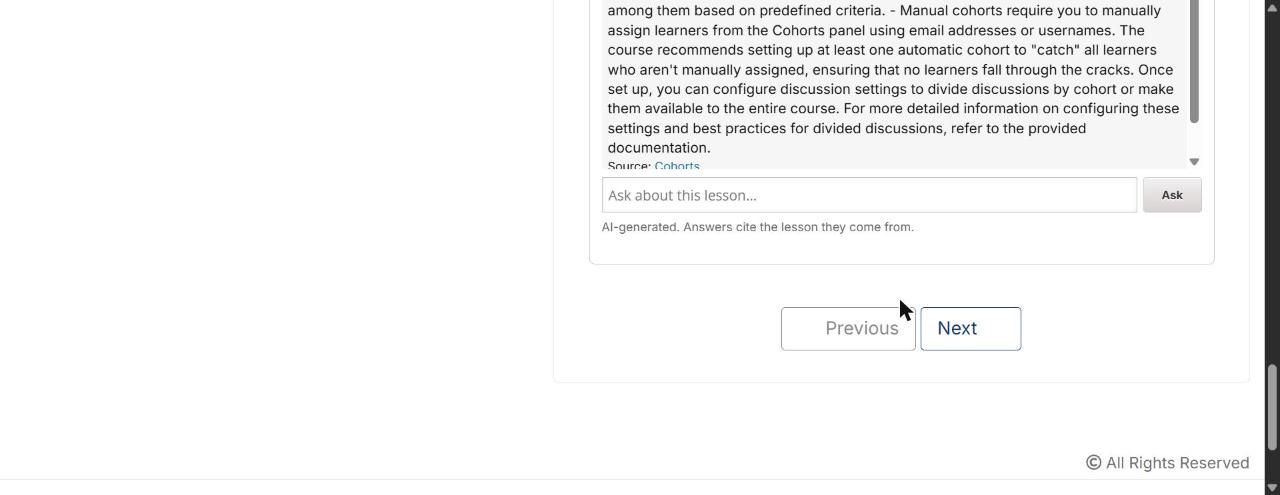
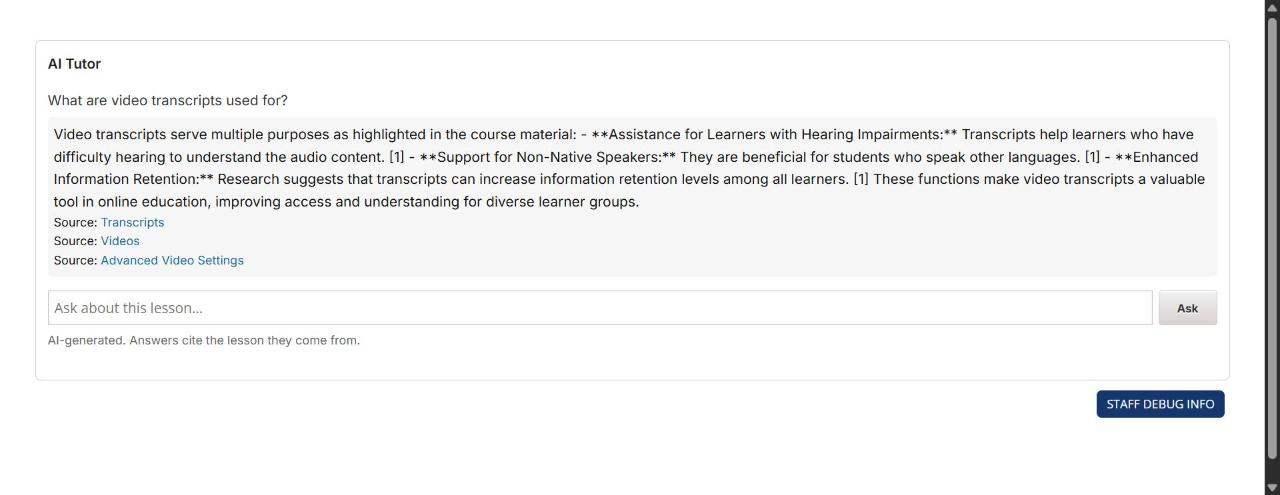
Fix citation persistence: citations now survive a page reload
persist_turn stored only question and answer text, so a reloaded answer lost its
sources -- the live answer was cited and the persisted one was not, which
undercuts the central claim for any student who refreshes.

Citations are now stored with the turn and rendered by student_view through the
same citationNode() the live stream uses, so a reloaded answer is
indistinguishable from a fresh one.

Two things fell out of doing it properly:

- clean_citations() extracted to xblock/citations.py. persist_turn is a handler
  the student's own page calls, so its body is untrusted input even though the
  citations originated with us; whatever is stored is re-rendered on every load,
  which makes storage a persistence point for anything the browser sends. Fields
  and count are whitelisted. It deliberately does NOT scheme-check the URL --
  that belongs in the client's safeHref(), which also covers live frames from
  the service that never pass through this function.

- The helper lives in its own module because tutor_block imports django.conf at
  import time, which made a pure validator untestable in the fast suite and in
  CI. A validator sitting behind a framework import is one nobody exercises.

History sent to the model is stripped back to role and content, matching Turn in
the shared contract rather than relying on the server to ignore extra keys.

Verified in the browser: ask -> 3 citations live -> reload -> same 3 citations,
hrefs same-origin. 78 tests, 6 contracts.

diff --git a/packages/coursemate-platform/coursemate_platform/xblock/static/js/src/tutor.js b/packages/coursemate-platform/coursemate_platform/xblock/static/js/src/tutor.js
@@ -64,12 +64,39 @@ function CourseMateTutor(runtime, element, initArgs) {
     }
   }
 
+  /* One place that builds a citation line, used by both the live stream and the
+   * reloaded history — so a persisted answer looks identical to a fresh one. */
+  function citationNode(citation) {
+    var wrap = el("div", "cm-citation");
+    var link = el("a", null, citation.display_name || citation.usage_key);
+    link.href = safeHref(citation.url);
+    wrap.appendChild(document.createTextNode("Source: "));
+    wrap.appendChild(link);
+    return wrap;
+  }
+
   function renderHistory() {
     while (log.firstChild) { log.removeChild(log.firstChild); }
     history.forEach(function (turn) {
-      log.appendChild(el("div", "cm-turn " + turn.role, turn.content));
+      var node = el("div", "cm-turn " + turn.role, turn.content);
+      /* Citations are persisted with the turn, so a reloaded answer keeps its
+       * sources. Before this they existed only during the live stream, and a
+       * refresh silently stripped them — which undercuts the whole point of a
+       * tutor that cites. */
+      (turn.citations || []).forEach(function (c) { node.appendChild(citationNode(c)); });
+      log.appendChild(node);
     });
     log.scrollTop = log.scrollHeight;
+  }
+
+  /* The model needs role and content; it has no use for citations, and Turn in
+   * the shared contract carries only those two fields. Stripping here keeps the
+   * request payload matching the contract rather than relying on the server to
+   * ignore extra keys. */
+  function historyForRequest() {
+    return history.slice(-10).map(function (t) {
+      return { role: t.role, content: t.content };
+    });
   }
 
   function busy(state) {
@@ -153,7 +180,7 @@ function CourseMateTutor(runtime, element, initArgs) {
         },
         body: JSON.stringify({
           question: question,
-          history: history.slice(-10),
+          history: historyForRequest(),
           mode: mode
         })
       }).then(function (response) {
@@ -171,12 +198,7 @@ function CourseMateTutor(runtime, element, initArgs) {
               break;
             case "citation":
               citations.push(frame.citation);
-              var cite = el("div", "cm-citation");
-              var link = el("a", null, frame.citation.display_name || frame.citation.usage_key);
-              link.href = safeHref(frame.citation.url);
-              cite.appendChild(document.createTextNode("Source: "));
-              cite.appendChild(link);
-              answerNode.appendChild(cite);
+              answerNode.appendChild(citationNode(frame.citation));
               break;
             case "unsupported_claim":
               // Mark it; never silently rewrite text the student already read.
@@ -197,7 +219,7 @@ function CourseMateTutor(runtime, element, initArgs) {
         }).then(function () {
           busy(false);
           if (!answer) { return; }
-          history.push({ role: "tutor", content: answer });
+          history.push({ role: "tutor", content: answer, citations: citations });
           // Persist through the platform, which owns conversation state (§3.1).
           fetch(persistUrl, {
             method: "POST",

diff --git a/packages/coursemate-platform/tests/unit/test_citations.py b/packages/coursemate-platform/tests/unit/test_citations.py
@@ -1,0 +1,82 @@
+"""Citation persistence and sanitisation.
+
+`persist_turn` is a handler the student's own page calls, so its body is
+**untrusted input** even though the citations originally came from the service.
+Whatever is stored here is re-rendered on every subsequent page load, which makes
+storage a persistence point for anything the browser sends.
+"""
+
+from __future__ import annotations
+
+import pytest
+from coursemate_platform.xblock.citations import (
+    MAX_CITATIONS_PER_TURN,
+    clean_citations as _clean_citations,
+)
+
+
+def test_valid_citations_survive():
+    out = _clean_citations([
+        {"usage_key": "block-v1:X+type@html+block@a",
+         "display_name": "Transcripts",
+         "url": "/courses/c/jump_to/block-v1:X+type@html+block@a"},
+    ])
+    assert len(out) == 1
+    assert out[0]["display_name"] == "Transcripts"
+    assert out[0]["url"].startswith("/courses/")
+
+
+def test_only_whitelisted_fields_are_stored():
+    """Storing the payload verbatim would put arbitrary browser-supplied structure
+    into user_state and re-render it on every load."""
+    out = _clean_citations([{
+        "usage_key": "block-v1:X",
+        "display_name": "Lesson",
+        "url": "/ok",
+        "evil": "<script>alert(1)</script>",
+        "nested": {"more": "junk"},
+    }])
+    assert set(out[0]) == {"usage_key", "display_name", "url"}
+
+
+def test_citation_without_a_usage_key_is_dropped():
+    """usage_key is what makes a citation checkable. Without it there is nothing
+    to verify the link against."""
+    assert _clean_citations([{"display_name": "No key", "url": "/x"}]) == []
+
+
+def test_count_is_capped():
+    """A retrieval returning many chunks must not grow a student's user_state
+    without bound."""
+    many = [{"usage_key": f"block-{i}", "display_name": f"L{i}", "url": "/x"}
+            for i in range(50)]
+    assert len(_clean_citations(many)) == MAX_CITATIONS_PER_TURN
+
+
+def test_field_lengths_are_bounded():
+    out = _clean_citations([{
+        "usage_key": "k" * 5000, "display_name": "d" * 5000, "url": "/" + "u" * 5000,
+    }])
+    assert len(out[0]["usage_key"]) <= 255
+    assert len(out[0]["display_name"]) <= 200
+    assert len(out[0]["url"]) <= 500
+
+
+@pytest.mark.parametrize("junk", [None, "a string", 42, {"not": "a list"}, [1, 2, 3], ["x"]])
+def test_malformed_payloads_never_raise(junk):
+    """persist_turn must not 500 on a malformed body — it is called by a browser
+    after every answer, and an exception there loses the turn."""
+    assert isinstance(_clean_citations(junk), list)
+
+
+def test_javascript_url_is_stored_but_neutralised_at_render():
+    """Defence in depth, stated honestly.
+
+    Sanitising here does NOT reject a javascript: URL — the value is bounded and
+    whitelisted, not scheme-checked. The client's safeHref() is what refuses to
+    render it, and that is the correct place: the same check protects live frames
+    from the service, which never pass through this function at all.
+    """
+    out = _clean_citations([{"usage_key": "k", "display_name": "d",
+                             "url": "javascript:alert(1)"}])
+    assert out[0]["url"] == "javascript:alert(1)"  # stored verbatim, by design

diff --git a/packages/coursemate-platform/coursemate_platform/xblock/citations.py b/packages/coursemate-platform/coursemate_platform/xblock/citations.py
@@ -1,0 +1,57 @@
+"""Citation sanitisation — pure, so it is testable without Django.
+
+Extracted from `tutor_block.py` because that module imports `django.conf` at
+import time, which made a function with no Django dependency untestable in the
+fast suite and in CI. A pure validator sitting behind a framework import is a
+validator nobody exercises.
+"""
+
+from __future__ import annotations
+
+#: Citations stored per answer. A retrieval returning many chunks must not be
+#: able to grow a student's `user_state` without bound.
+MAX_CITATIONS_PER_TURN = 8
+
+_MAX_USAGE_KEY = 255
+_MAX_DISPLAY_NAME = 200
+_MAX_URL = 500
+
+
+def clean_citations(raw: object) -> list[dict]:
+    """Keep only the three fields the UI renders, from a payload the browser sent.
+
+    `persist_turn` is a handler the student's own page calls, so its body is
+    **untrusted input** even though the citations originally came from us. Storing
+    it verbatim would put arbitrary browser-supplied structure into `user_state`
+    and re-render it on every page load — storage is a persistence point for
+    whatever the browser sends.
+
+    Note what this does **not** do: it does not scheme-check the URL. That belongs
+    at render time, in the client's `safeHref()`, because the same check must also
+    cover live citation frames streamed from the service — which never pass
+    through this function at all. Validating in one place that covers both paths
+    is better than validating twice and trusting neither completely.
+
+    Never raises: this runs after every answer, and an exception here loses the
+    student's turn.
+    """
+    if not isinstance(raw, list):
+        return []
+
+    cleaned: list[dict] = []
+    for item in raw[:MAX_CITATIONS_PER_TURN]:
+        if not isinstance(item, dict):
+            continue
+        usage_key = str(item.get("usage_key") or "")[:_MAX_USAGE_KEY]
+        if not usage_key:
+            # Without a usage_key a citation cannot be checked against anything,
+            # which makes it decoration rather than attribution.
+            continue
+        cleaned.append(
+            {
+                "usage_key": usage_key,
+                "display_name": str(item.get("display_name") or "")[:_MAX_DISPLAY_NAME],
+                "url": str(item.get("url") or "")[:_MAX_URL],
+            }
+        )
+    return cleaned

diff --git a/packages/coursemate-platform/coursemate_platform/xblock/tutor_block.py b/packages/coursemate-platform/coursemate_platform/xblock/tutor_block.py
@@ -41,6 +41,7 @@ except ImportError:  # pragma: no cover
 from coursemate_contracts.chat import Mode
 
 from ..client.jwt import mint_student_token
+from .citations import clean_citations
 
 log = logging.getLogger(__name__)
 loader = ResourceLoader(__name__)
@@ -49,6 +50,7 @@ loader = ResourceLoader(__name__)
 #: KB, and the alternative — the service keeping its own conversation store —
 #: would duplicate PII into a system that platform retirement does not reach.
 HISTORY_WINDOW_TURNS = 10
+
 
 
 @XBlock.wants("user")
@@ -188,7 +190,14 @@ class CourseMateTutorXBlock(XBlock):
         self.history = [
             *self.history,
             {"role": "student", "content": question},
-            {"role": "tutor", "content": answer},
+            {
+                "role": "tutor",
+                "content": answer,
+                # Citations are stored WITH the turn. Without this the live answer
+                # is cited and the reloaded one is not — which quietly breaks the
+                # product's central claim for any student who refreshes.
+                "citations": clean_citations((data or {}).get("citations")),
+            },
         ][-(HISTORY_WINDOW_TURNS * 2):]
         return {"saved": True, "turns": len(self.history)}
 

diff --git a/docs/LIMITATIONS.md b/docs/LIMITATIONS.md
@@ -61,24 +61,6 @@ after every filter was correct.
 
 ---
 
-## 4b. Citations do not survive a page reload
-
-Found while capturing screenshots. During a live answer, citations render as
-links under the response. After a reload they are gone.
-
-`persist_turn` saves the question and answer text to `Scope.user_state`;
-`Citation` objects are sent by the browser but not stored, and `student_view`
-re-renders history as plain turns. So the live answer is cited and the persisted
-one is not.
-
-**Not critical** — every answer is cited at the moment it is given, and the
-underlying retrieval is unaffected — but it undercuts the product's central claim
-for any student who refreshes. The fix is small: persist the citation list
-alongside each turn and render it in `student_view`. Recorded rather than fixed
-because handoff mode is for bugs that break behaviour, not for features.
-
----
-
 ## 5. Ingestion gaps
 
 - **Publish-triggered incremental indexing is wired but unverified end to end.**

diff --git a/README.md b/README.md
@@ -48,7 +48,7 @@ Browser ──1── XBlock.mint()  →  JWT          (0.115 ms; LMS released)
 
 *Real Open edX lesson, real course content, `qwen2.5:7b` via Ollama. No mock.*
 
-**Grounded answer with a citation back to the source lesson**
+**Grounded answer with citations back to the source lessons** — these persist across a page reload
 
 ![Grounded answer citing the Cohorts lesson](docs/screenshots/02-grounded-answer-with-citation.jpg)
 
